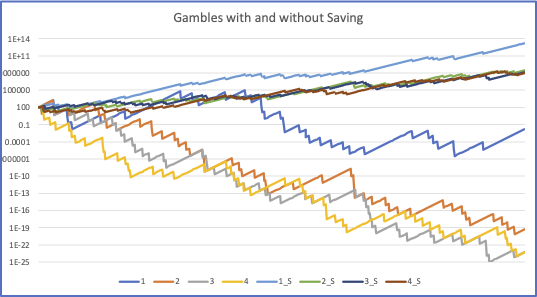
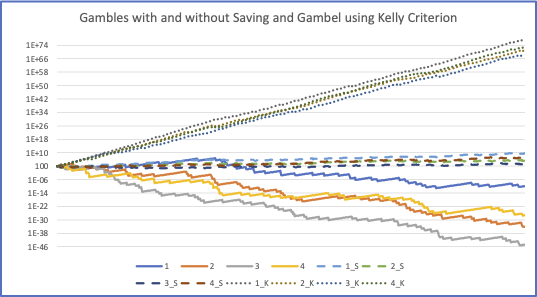
updated ergodicity with kelly criterion

diff --git a/post/2023-07-19-ergodicity-and-insurance/index.html b/post/2023-07-19-ergodicity-and-insurance/index.html
@@ -60,7 +60,7 @@ It really should be titled financial transactions as an ergodicity problem: A wa
   "headline": "Ergodicity and Insurance",
   "description" : "I read this post on LinkedIn by Andreas Tsanakas that referenced a paper by Ole Peters titled Insurance as an Ergodicity Problem.\nIt really should be titled financial transactions as an ergodicity problem: A way to model why people transact in financial markets (buy insurance, etc) without needing to appeal to concavity of utility functions and risk-aversion. It also explains how saving part of your income in each time period and investing only a fraction of your wealth in any gamble makes sense (a type of self-insurance) when the outcomes have multiplicative and not additive impacts on your life as it surely does in the real world.",
   "inLanguage" : "en",
-  "wordCount":  193 ,
+  "wordCount":  216 ,
   "datePublished" : "2023-07-19T00:00:00",
   "dateModified" : "2023-07-19T00:00:00",
   "image" : "https:\/\/www.codelooper.com\/img\/redplane.png",
@@ -273,10 +273,10 @@ if (!doNotTrack) {
   <i class="fas fa-calendar"></i>&nbsp;Posted on July 19, 2023
   
   
-    &nbsp;|&nbsp;<i class="fas fa-clock"></i>&nbsp;1&nbsp;minutes
+    &nbsp;|&nbsp;<i class="fas fa-clock"></i>&nbsp;2&nbsp;minutes
   
   
-    &nbsp;|&nbsp;<i class="fas fa-book"></i>&nbsp;193&nbsp;words
+    &nbsp;|&nbsp;<i class="fas fa-book"></i>&nbsp;216&nbsp;words
   
   
     
@@ -304,7 +304,7 @@ if (!doNotTrack) {
       <article role="main" class="blog-post">
         <p>I read this post on <a href="https://www.linkedin.com/feed/update/urn:li:activity:7085565022042472448?updateEntityUrn=urn%3Ali%3Afs_feedUpdate%3A%28V2%2Curn%3Ali%3Aactivity%3A7085565022042472448%29">LinkedIn</a> by Andreas Tsanakas that referenced a paper by Ole Peters titled <a href="https://tinyurl.com/yc65c2h3">Insurance as an Ergodicity Problem</a>.</p>
 <p>It really should be titled financial transactions as an ergodicity problem: A way to model why people transact in financial markets (buy insurance, etc) without needing to appeal to concavity of utility functions and risk-aversion. It also explains how saving part of your income in each time period and investing only a fraction of your wealth in any gamble makes sense (a type of self-insurance) when the outcomes have multiplicative and not additive impacts on your life as it surely does in the real world.</p>
-<p>I made a spreadsheet to illustrate the main points in the paper (<a href="/post/2023-07-19-ergodicity-and-insurance/Ergodicity.xlsx">Ergodicity Excel Model</a> ) which plots four random multiplicative series and 4 of the same with savings and withdrawals that would be similar to paying a premium in good years and getting an indemnity in poor years. The model could be made more realistic but I think it illustrates the point that using expected values (arithmetic average) leads to the wrong conclusions in some cases where there are multiplicative impacts in a dynamic system.</p>
+<p>I made a spreadsheet to illustrate the main points in the paper (<a href="/post/2023-07-19-ergodicity-and-insurance/Ergodicity.xlsx">Ergodicity Excel Model</a> ) which plots four random multiplicative series and 4 of the same with savings and withdrawals that would be similar to paying a premium in good years and getting an indemnity in poor years. I also tested the <a href="https://en.wikipedia.org/wiki/Kelly_criterion">Kelly Criterion</a> which might be the optimal solution (betting an optimal proportion of the wealth in each time period). The model could be made more realistic but I think it illustrates the point that using expected values (arithmetic average) leads to the wrong conclusions in some cases where there are multiplicative impacts in a dynamic system.</p>
 <img src="images/ergodicity_series.png" alt="ergodicity_series" width="80%"/>
 
 

diff --git a/categories/economics/index.html b/categories/economics/index.html
@@ -246,10 +246,10 @@ if (!doNotTrack) {
   <i class="fas fa-calendar"></i>&nbsp;Posted on July 19, 2023
   
   
-    &nbsp;|&nbsp;<i class="fas fa-clock"></i>&nbsp;1&nbsp;minutes
+    &nbsp;|&nbsp;<i class="fas fa-clock"></i>&nbsp;2&nbsp;minutes
   
   
-    &nbsp;|&nbsp;<i class="fas fa-book"></i>&nbsp;193&nbsp;words
+    &nbsp;|&nbsp;<i class="fas fa-book"></i>&nbsp;216&nbsp;words
   
   
     

diff --git a/index.html b/index.html
@@ -252,10 +252,10 @@ if (!doNotTrack) {
   <i class="fas fa-calendar"></i>&nbsp;Posted on July 19, 2023
   
   
-    &nbsp;|&nbsp;<i class="fas fa-clock"></i>&nbsp;1&nbsp;minutes
+    &nbsp;|&nbsp;<i class="fas fa-clock"></i>&nbsp;2&nbsp;minutes
   
   
-    &nbsp;|&nbsp;<i class="fas fa-book"></i>&nbsp;193&nbsp;words
+    &nbsp;|&nbsp;<i class="fas fa-book"></i>&nbsp;216&nbsp;words
   
   
     

diff --git a/post/index.html b/post/index.html
@@ -265,10 +265,10 @@ if (!doNotTrack) {
   <i class="fas fa-calendar"></i>&nbsp;Posted on July 19, 2023
   
   
-    &nbsp;|&nbsp;<i class="fas fa-clock"></i>&nbsp;1&nbsp;minutes
+    &nbsp;|&nbsp;<i class="fas fa-clock"></i>&nbsp;2&nbsp;minutes
   
   
-    &nbsp;|&nbsp;<i class="fas fa-book"></i>&nbsp;193&nbsp;words
+    &nbsp;|&nbsp;<i class="fas fa-book"></i>&nbsp;216&nbsp;words
   
   
     
